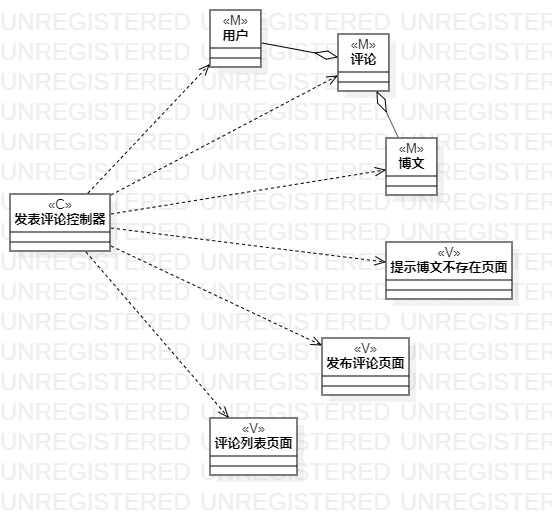
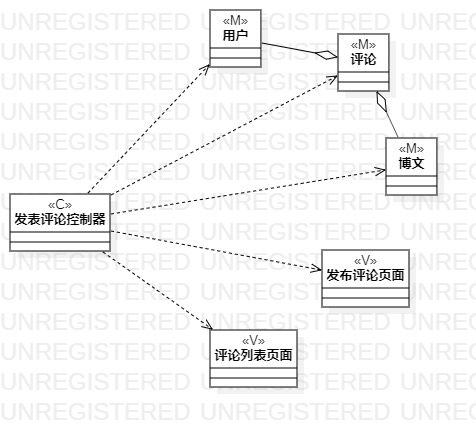
#6 #201
#6 #201 第六次实验&前几次实验修改

diff --git a/students/1714080902216/lab2.md b/students/1714080902216/lab2.md
@@ -32,30 +32,35 @@
 
 ##
 
-## 表1：用户发表博客用例规约
+## 表1：用户发表博文用例规约
 用例编号 | UC01 | 备注 |
 :- | :- | :- | 
 用例名称 | 发表博文 | 
-前置条件 | 用户已登录 | 必要
-后置条件 | 系统已保存博文信息 | 必要
+前置条件 | 无 | 
+后置条件 | 无 | 
 基本流程 | 1.用户点击发布博文按钮 |
-~ | 2.系统跳转发布博文页面 |
-~ | 3.用户输入博文信息后点击发布按钮 |
-~ | 4.系统检查必要信息已全部填写，保存博文信息 |
-~ | 5.系统跳转博文列表 |
-扩展流程 | 4.1 系统检查发现博文缺少必要信息，提示“必要信息没有填写完整” | 发布博客失败
+~ | 2.系统检查用户已登录|
+~ | 3.系统跳转发布博文页面 |
+~ | 4.用户输入博文信息后点击发布按钮 |
+~ | 5.系统检查必要信息已全部填写，保存博文信息 |
+~ | 6.系统跳转博文列表 |
+扩展流程 | 2.1 系统检查用户没有登录，提示“请先登录” | 发布博文失败 |
+~ | 5.1 系统检查发现博文缺少必要信息，提示“必要信息没有填写完整” | 发布博文失败 |
+
 
 ## 表2：用户发表评论规约
 用例编号 | UC02 | 备注 |
 :- | :- | :- | 
 用例名称 | 发表评论 | 
-前置条件 | 用户已登录并查看某篇博文 | 必要
-后置条件 | 服务器已保存评论信息 | 必要
+前置条件 | 无 | 
+后置条件 | 无 | 
 基本流程 | 1.用户点击发布评论按钮 |
-~ | 2.系统跳转发布评论页面 |
-~ | 3.用户输入评论信息后点击评论按钮 |
-~ | 4.系统检查评论没有包含非法信息 |
-~ | 5.系统检查博文存在，保存评论信息 |
-~ | 6.系统跳转评论列表 |
-扩展流程 | 4.1 系统检查发现评论出现非法信息，提示“评论出现非法信息” | 发表评论失败 |
-~ | 5.1 系统检查博文不存在，提示“该博文不存在” | 发表评论失败 |
+~ | 2.系统检查用户已登录 |
+~ | 3.系统跳转发布评论页面 |
+~ | 4.用户输入评论信息后点击评论按钮 |
+~ | 5.系统检查评论没有包含非法信息 |
+~ | 6.系统检查博文存在，保存评论信息 |
+~ | 7.系统跳转评论列表 |
+扩展流程 | 2.1 系统检查用户没有登录，提示“请先登录” |　发表评论失败　|
+~ | 5.1 系统检查发现评论出现非法信息，提示“评论出现非法信息” | 发表评论失败 |
+~ | 6.1 系统检查博文不存在，提示“该博文不存在” | 发表评论失败 |

diff --git a/students/1714080902216/lab6.md b/students/1714080902216/lab6.md
@@ -1,0 +1,33 @@
+# 实验六：交互建模
+
+## 1.实验目标
+1. 理解系统交互；
+2. 掌握UML顺序图的画法；
+3. 掌握对象交互的定义与建模方法。
+
+## 2. 实验内容
+1. 根据用例模型和类模型，确定功能所涉及的系统对象；
+2. 在顺序图上画出参与者（对象）；
+3. 在顺序图上画出消息（交互）；
+
+## 3. 实验步骤
+1. 了解对象以及其画法；
+2. 了解顺序图的构成、“时间顺序”的概念；
+3. 了解顺序图的对象交互以及参与者的存活条；
+4. 了解各种箭头对应的消息类型；
+5. 从类图中找到以下参与者：
+   #### 1. 发表博文
+   用户（a）、博文列表页面（v）、发布博文页面（V）、发表博文控制器（c）、用户（m）、博文（m）；
+   #### 2. 发表评论
+   用户（a）、评论列表页面（v）、发布评论页面（V）、发表评论控制器（c）、用户（m）、博文（m）、评论（m）；
+   
+6. 从活动图中提取出步骤；
+
+
+## 5. 实验结果
+
+![发表博文](./User_PushBlog-squence.jpg)  
+图1：发表博文的顺序图
+
+![发表评论](./User_PushComment-squence.jpg)  
+图1：发表评论的顺序图
